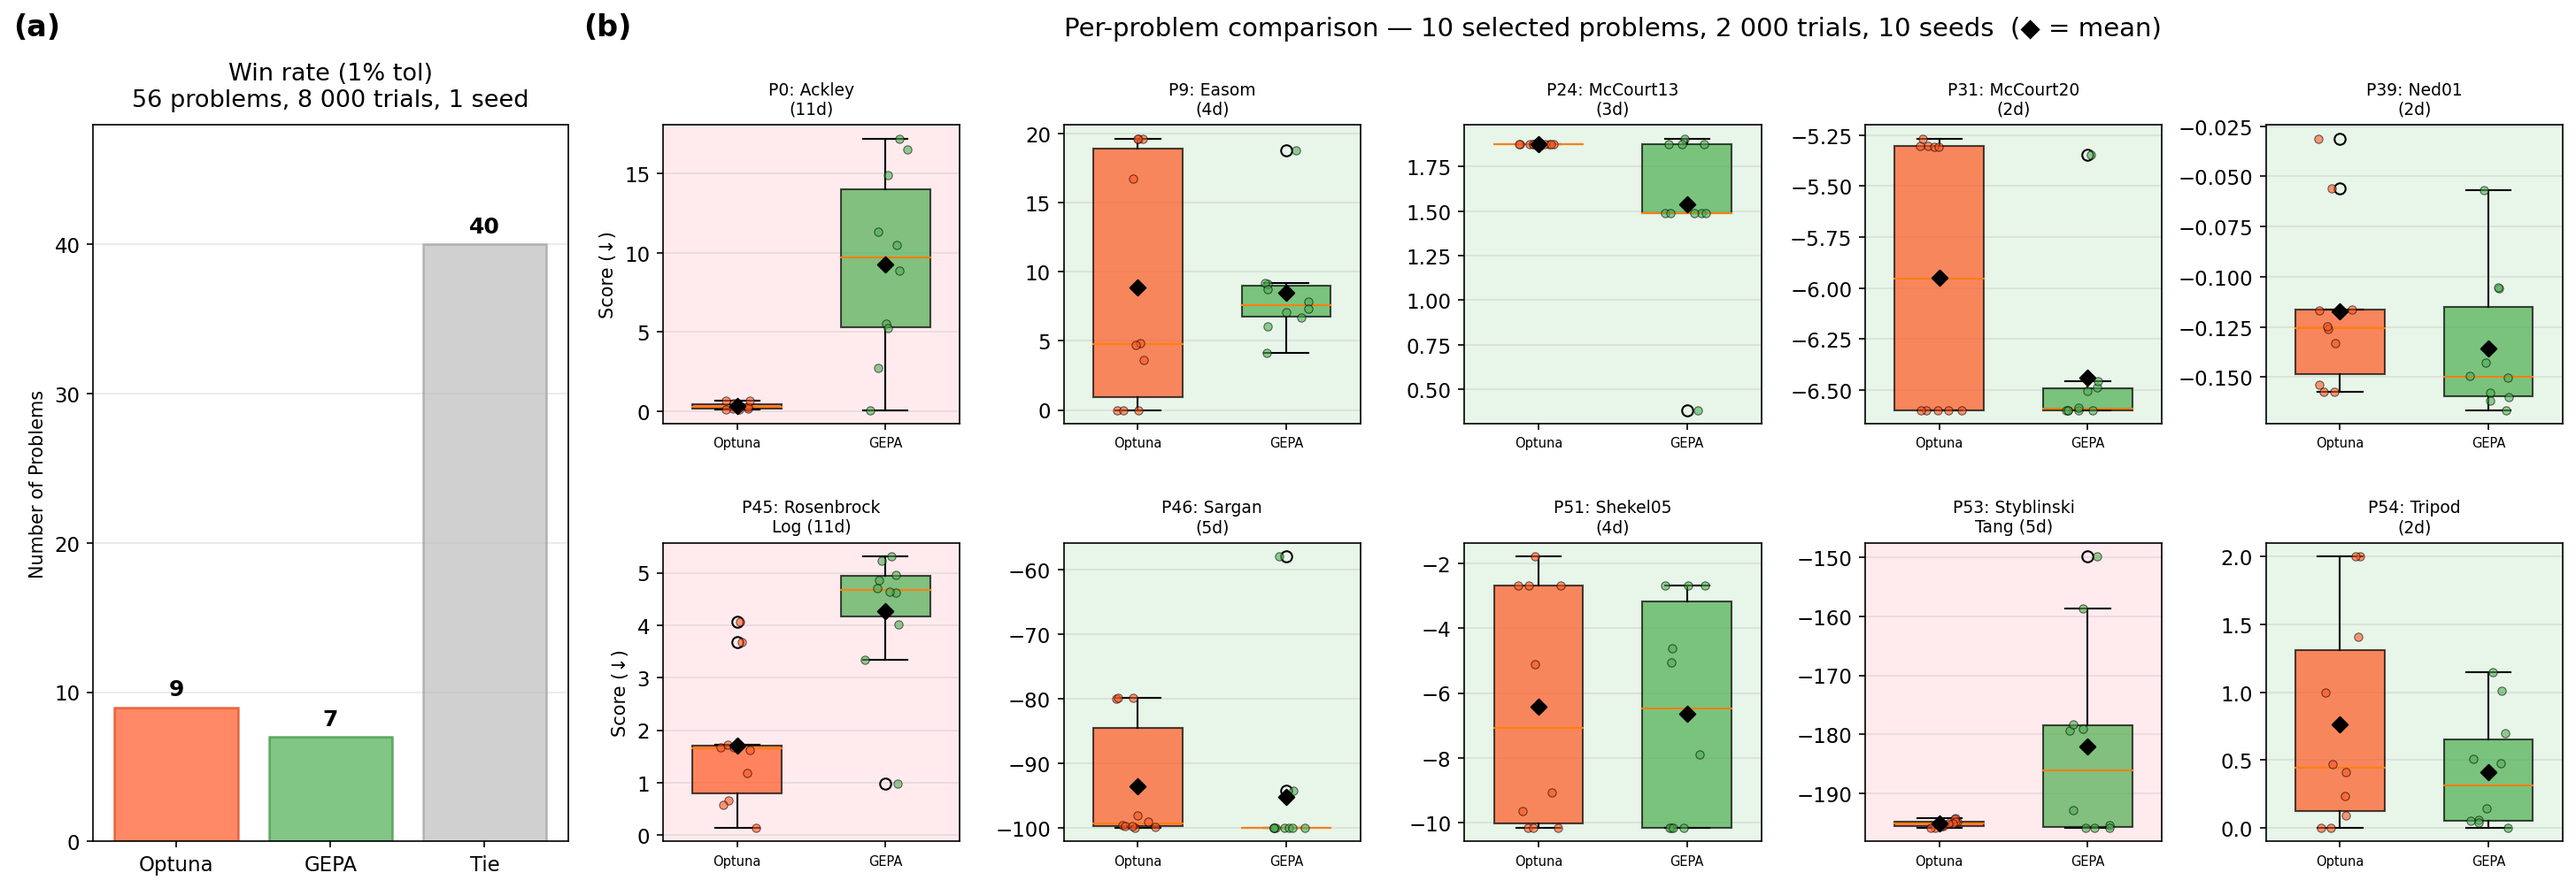
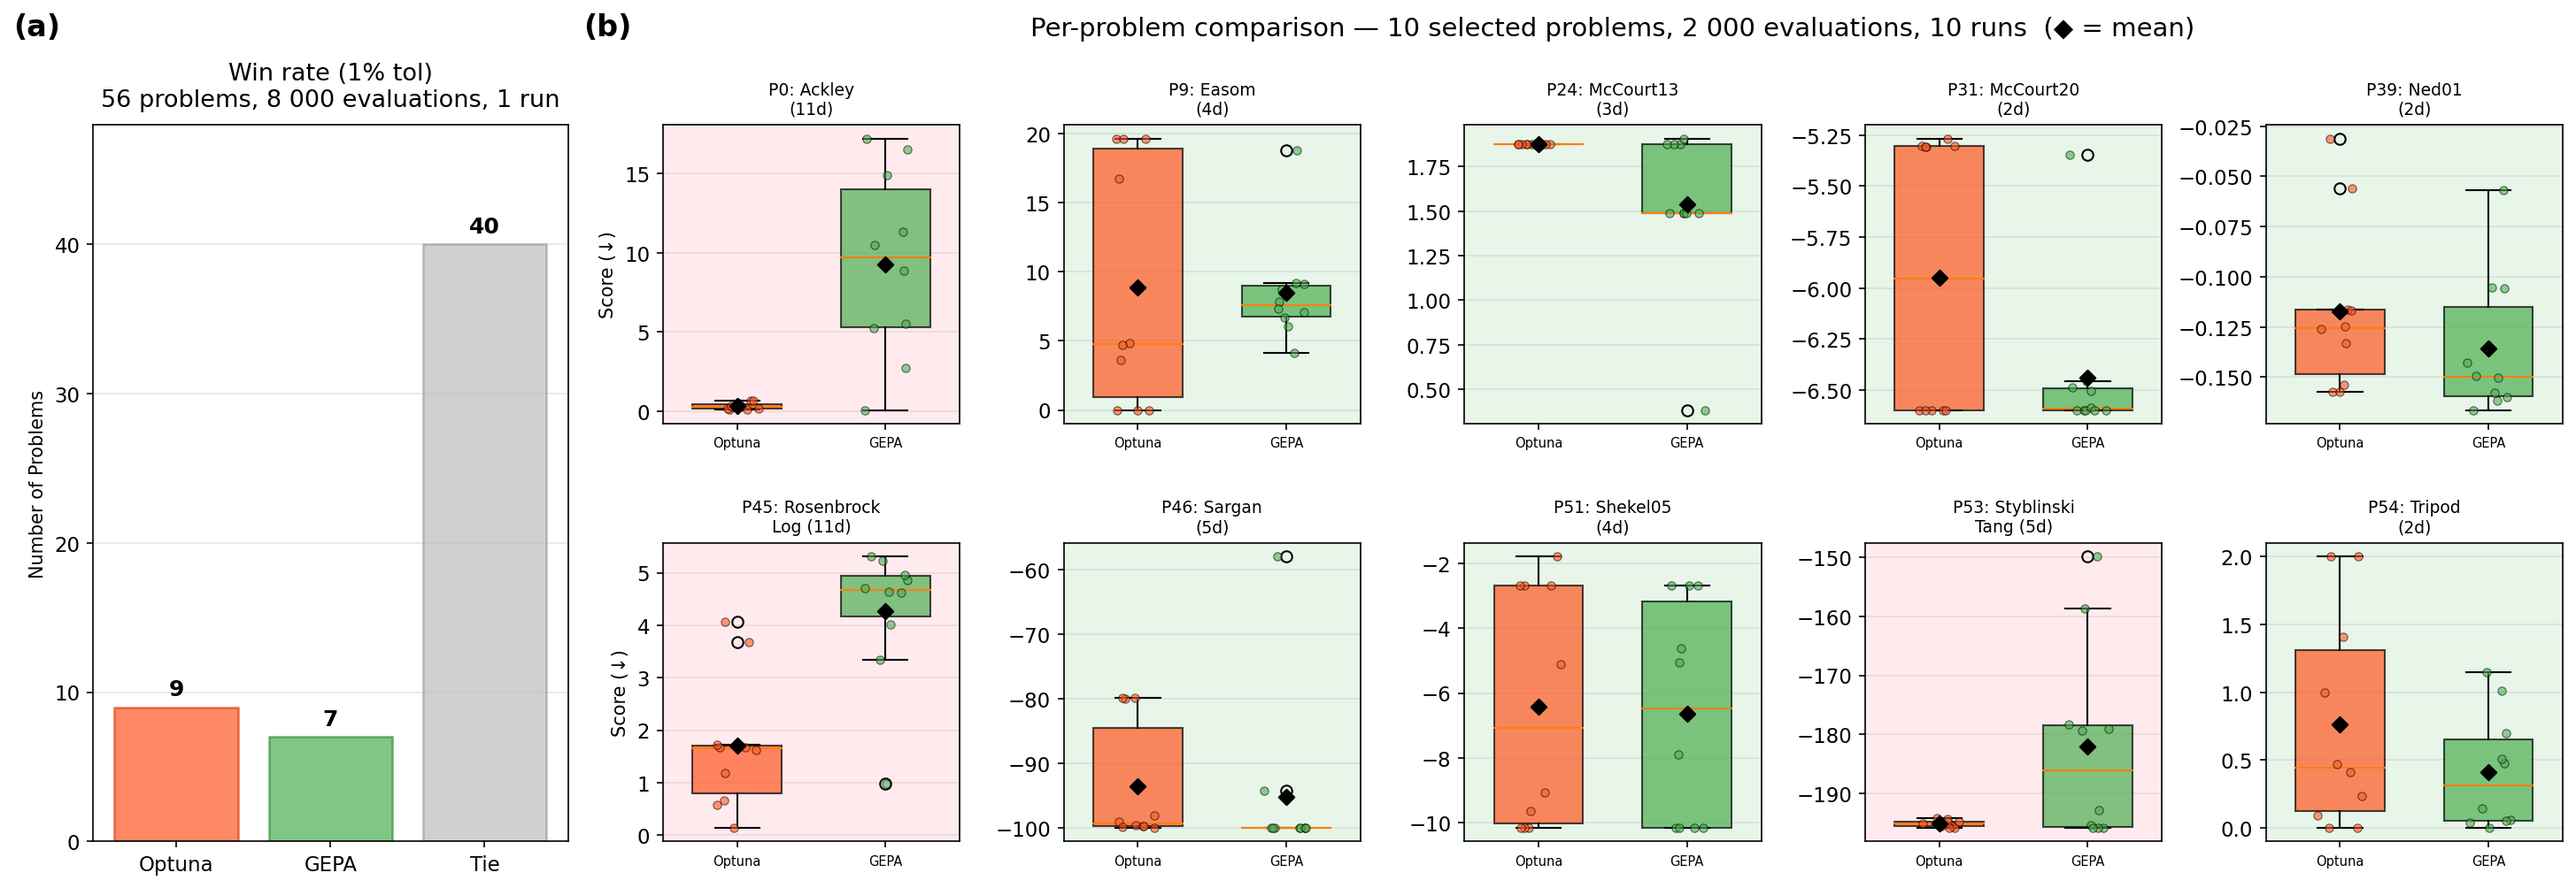
Edit Luke sections

diff --git a/docs/docs/blog/posts/2026-02-18-introducing-optimize-anything/index.md b/docs/docs/blog/posts/2026-02-18-introducing-optimize-anything/index.md
@@ -427,7 +427,7 @@ To gauge the effectiveness of cross-task learning, we take the 10 problems where
 
 ### 4. Prompt Optimization: AIME Mathematics
 
-**Mode: Generalization.** Optimize a system prompt for solving [AIME](https://en.wikipedia.org/wiki/American_Invitational_Mathematics_Examination) 2025 math competition problems. The evaluator runs gpt-4.1-mini with the candidate prompt and scores whether the answer is correct. GEPA is the [state-of-the-art prompt optimization algorithm](https://gepa-ai.github.io/gepa/).
+**Mode: Generalization.** We optimize a system prompt for gpt-4.1-mini by *training* on [AIME](https://en.wikipedia.org/wiki/American_Invitational_Mathematics_Examination) 2022–2024 math competition problems and *testing* on AIME 2025. GEPA is the [state-of-the-art prompt optimization algorithm](https://gepa-ai.github.io/gepa/).
 
 <figure markdown="span">
   ![Optimization trajectory for AIME 2025 with gpt-4.1-mini. Validation score improves from 46.67% to 57.78% over 350 metric calls. Best test score reaches 60.00%, up from a 46.67% baseline.](aime_results.png)
@@ -450,21 +450,21 @@ To gauge the effectiveness of cross-task learning, we take the 10 problems where
   <figcaption>The optimized ARC-AGI agent architecture with a multi-stage pipeline with code generation, iterative validation, and dual-path prediction</figcaption>
 </figure>
 
-**Key result:** Using the same underlying model (Gemini 3 Flash), `optimize_anything` improves ARC-AGI test accuracy from 32.5% to **89.5%** by evolving the entire agent architecture, achieving gains that typically require significant manual iteration. [Full code →](#appendix-f-arc-agi-agent-architecture-discovery)
+**Key result:** Using the same underlying model (Gemini 3 Flash), `optimize_anything` improves ARC-AGI v1 public test accuracy from 32.5% to **89.5%** by evolving the entire agent architecture, achieving gains that typically require significant manual iteration. [Full code →](#appendix-f-arc-agi-agent-architecture-discovery)
 ### 6. Blackbox Mathematical Optimization: Matching Optuna
 
 **Mode: Single-Task Search.** Given a blackbox objective function, `optimize_anything` discovers an optimization algorithm tailored to it and matches [Optuna](https://optuna.org/), the industry-standard blackbox optimizer, across the 56-problem [EvalSet](https://github.com/sigopt/evalset) benchmark.
 
 <figure markdown="span" style="margin: 0 auto;">
   ![Bar chart showing GEPA vs Optuna on 56 EvalSet problems with 1% tolerance and 8000 trials. GEPA wins on 7 problems, Optuna wins on 9, and they tie on 40.](optuna_combined2.png)
-  <figcaption>GEPA's optimize_anything matches Optuna, the industry-standard blackbox optimizer, on the EvalSet benchmark. (a) Over all 56 EvalSet problems (1 optimization run with each problem having an optimization budget of 8,000 evaluations), GEPA ties Optuna on 40, wins 7, and loses 9. (b) On 10 selected problems where Optuna struggles (10 independent runs with each problem having an optimization budget of 2,000 evaluations), GEPA finds better solutions on 7 out of 10.</figcaption>
+  <figcaption>GEPA's optimize_anything matches Optuna, the industry-standard blackbox optimizer, on the EvalSet benchmark. (a) Across all 56 EvalSet problems (budget of 8,000 evaluations each), GEPA ties Optuna on 40, wins 7, and loses 9. (b) On 10 selected problems where Optuna struggles (budget of 2,000 evaluations each), GEPA finds better solutions on 7 out of 10.</figcaption>
 </figure>
 
-On the 56-problem evalset benchmark with large budgets, GEPA and Optuna tie on most problems. But on the hardest problems with lower budgets where Optuna struggles, a striking pattern emerges: Optuna's fixed TPE-CMA-ES pipeline fails in predictable, structural ways. On McCourt13, all 10 independent Optuna runs converge to the same local minimum because TPE's independent per-dimension sampling always falls into the dominant trap basin. On Tripod, CMA-ES assumes a smooth, unimodal landscape, but the objective is piecewise-linear with hard discontinuities, so it converges to the wrong basin and cannot escape.
+On the 56-problem evalset benchmark with large budgets, GEPA and Optuna tie on most problems. But on the hardest problems with lower budgets where Optuna struggles, an interesting pattern emerges: Optuna's fixed TPE-CMA-ES pipeline fails in predictable, structural ways. On McCourt13, all 10 independent Optuna runs converge to the same local minimum because TPE's independent per-dimension sampling always falls into the dominant trap basin. On Tripod, CMA-ES assumes a smooth, unimodal landscape, but the objective is piecewise-linear with hard discontinuities, so it converges to the wrong basin and cannot escape.
 
 GEPA tailors the solver to each problem by learning from accumulated evaluation history. For boundary optima, it discovers L-BFGS-B, a box-constrained optimizer that naturally sticks to boundaries. For deceptive traps, it designs multi-start search from diverse starting points, escaping basins that trap single-trajectory methods. While Optuna tunes parameters within a fixed algorithm, GEPA learns to optimize the algorithm itself on the fly.
 
-**Key result:** `optimize_anything` matches the performance of Optuna, a mature numerical optimizer, by evolving solver code from a random-search seed. [Full code →](#appendix-a-blackbox-mathematical-optimization)
+**Key result:** `optimize_anything` matches the performance of Optuna, a mature numerical optimizer, by optimizing a blackbox search program tailored to each problem. [Full code →](#appendix-a-blackbox-mathematical-optimization)
 
 ### 7. Coding Agent Skills: Learning Skills for Any Repository
 
